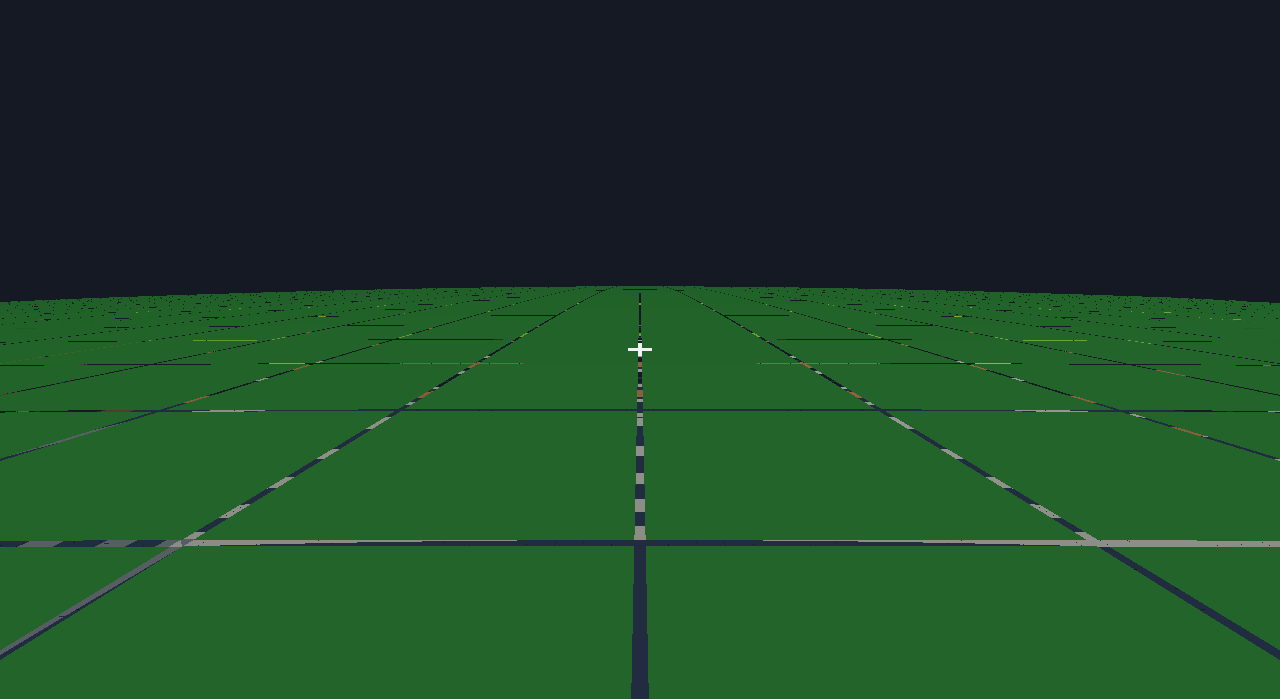
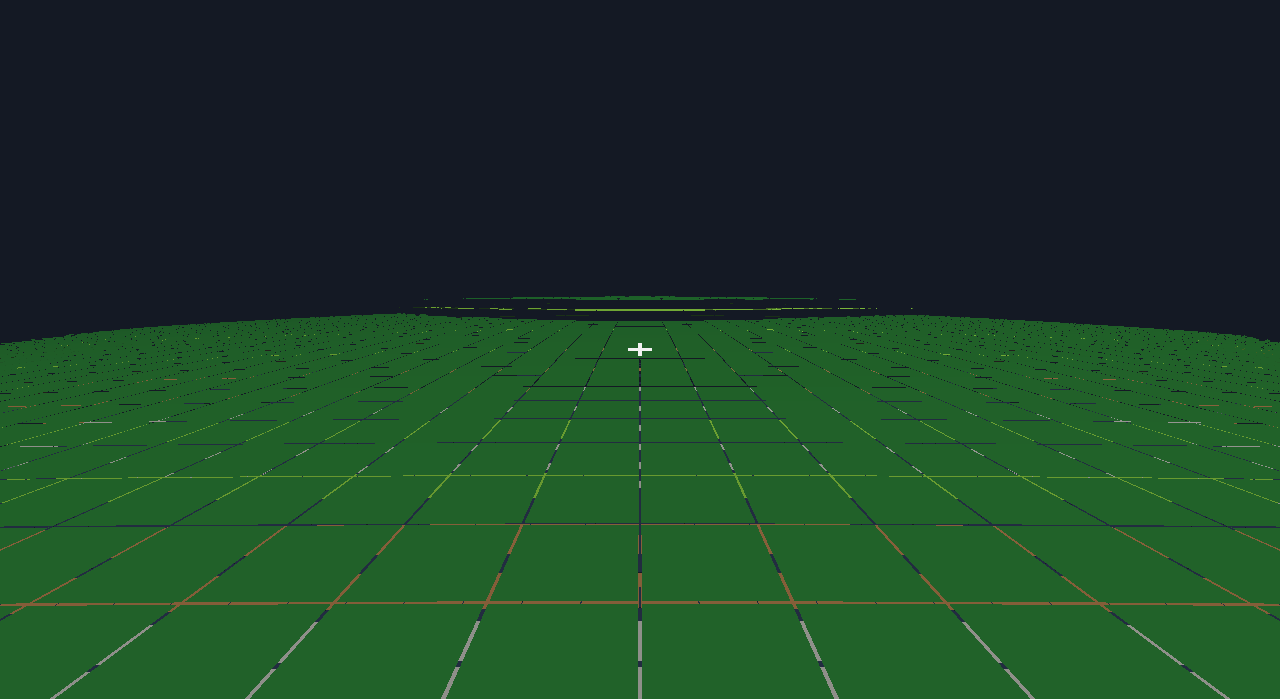
fix(render): disable wireframe overlay, add face culling diagnostics
- Wireframe planet overlay only shows with F2 devhud (was always visible)
- Added face culling statistics to diagnose missing side faces
- Result: Right/Front faces 100% culled (bug), others 81-93% (normal)

Face culling stats (4096 faces):
  Left:   635/683 culled (93%)
  Right:  683/683 culled (100%) <-- BUG
  Down:   587/683 culled (86%)
  Up:     603/683 culled (88%)
  Back:   552/682 culled (81%)
  Front:  680/682 culled (100%) <-- BUG

diff --git a/src/engine_world/planet_blocks.cpp b/src/engine_world/planet_blocks.cpp
@@ -596,6 +596,26 @@ RenderMesh BlockWorld::build_chunk_mesh(
                         }
                         occluded = solid_at(nb_addr);
                     }
+                    // Debug: count culled faces per direction for first chunk.
+                    static int culled_count[6] = {0};
+                    static int total_count[6] = {0};
+                    static int total_faces = 0;
+                    static bool logged_culling = false;
+                    total_count[static_cast<int>(fd)]++;
+                    total_faces++;
+                    if (occluded) {
+                        culled_count[static_cast<int>(fd)]++;
+                    }
+                    if (!logged_culling && total_faces >= 4096) {
+                        logged_culling = true;
+                        std::fprintf(stderr, "Face culling (4096 faces checked):\n");
+                        std::fprintf(stderr, "  Left:   %d/%d culled (%.0f%%)\n", culled_count[0], total_count[0], 100.0f * culled_count[0] / std::max(1, total_count[0]));
+                        std::fprintf(stderr, "  Right:  %d/%d culled (%.0f%%)\n", culled_count[1], total_count[1], 100.0f * culled_count[1] / std::max(1, total_count[1]));
+                        std::fprintf(stderr, "  Down:   %d/%d culled (%.0f%%)\n", culled_count[2], total_count[2], 100.0f * culled_count[2] / std::max(1, total_count[2]));
+                        std::fprintf(stderr, "  Up:     %d/%d culled (%.0f%%)\n", culled_count[3], total_count[3], 100.0f * culled_count[3] / std::max(1, total_count[3]));
+                        std::fprintf(stderr, "  Back:   %d/%d culled (%.0f%%)\n", culled_count[4], total_count[4], 100.0f * culled_count[4] / std::max(1, total_count[4]));
+                        std::fprintf(stderr, "  Front:  %d/%d culled (%.0f%%)\n", culled_count[5], total_count[5], 100.0f * culled_count[5] / std::max(1, total_count[5]));
+                    }
                     if (occluded) continue;
 
                     const bool top_face = (fd == BlockDir::Up);
@@ -647,6 +667,20 @@ RenderMesh BlockWorld::build_chunk_mesh(
                          v0.position.x, v0.position.y, v0.position.z,
                          v0.color.x, v0.color.y, v0.color.z);
         }
+        // Count faces by normal direction to debug missing side faces.
+        int face_count[6] = {0}; // +x, -x, +y, -y, +z, -z
+        for (size_t i = 0; i < mesh.vertices.size(); i += 4) {
+            const glm::vec3 &n = mesh.vertices[i].normal;
+            if (n.x > 0.5f) face_count[0]++;
+            else if (n.x < -0.5f) face_count[1]++;
+            else if (n.y > 0.5f) face_count[2]++;
+            else if (n.y < -0.5f) face_count[3]++;
+            else if (n.z > 0.5f) face_count[4]++;
+            else if (n.z < -0.5f) face_count[5]++;
+        }
+        std::fprintf(stderr, "Face counts: +x=%d -x=%d +y=%d -y=%d +z=%d -z=%d\n",
+                     face_count[0], face_count[1], face_count[2],
+                     face_count[3], face_count[4], face_count[5]);
     }
     return mesh;
 }
